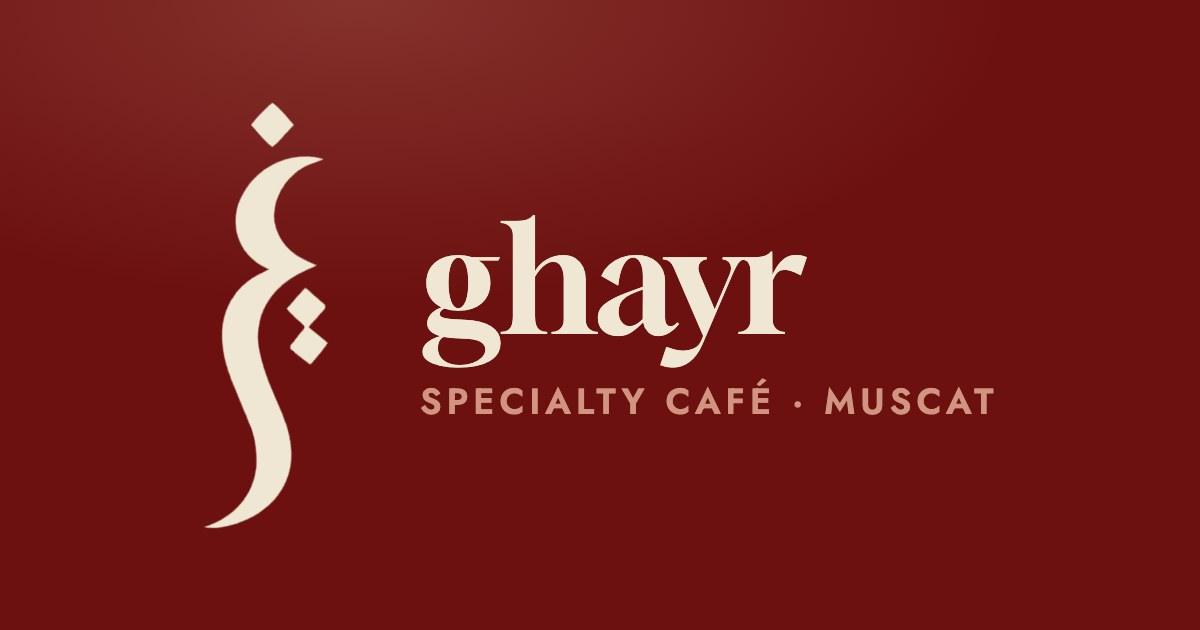
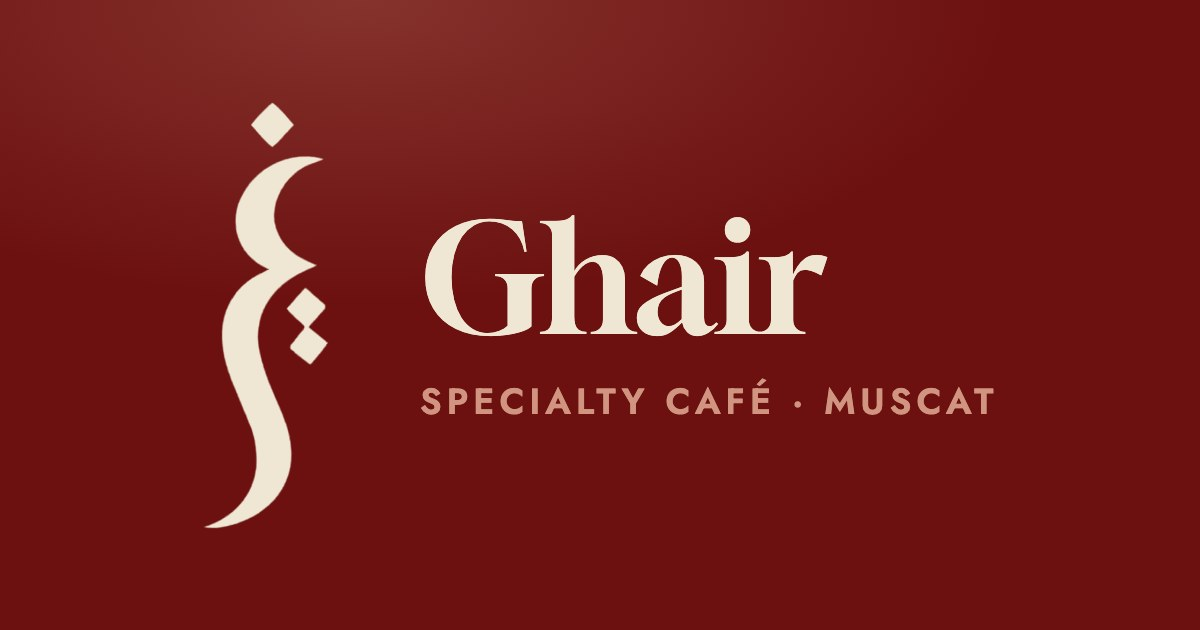
Use cafe's own spelling 'Ghair' for the visible English name and OG image
Claude-Session: https://claude.ai/code/session_01BqoRXw72S4MTjKAfkUrJE7

Changed region(s): [[0.3392, 0.3317, 0.7092, 0.6032], [0.37, 0.573, 0.4008, 0.6032]]

diff --git a/index.html b/index.html
@@ -3,13 +3,13 @@
 <head>
 <meta charset="utf-8">
 <meta name="viewport" content="width=device-width, initial-scale=1, viewport-fit=cover">
-<title>Ghair Cafe (ghayr · غير) — specialty café in Muscat</title>
-<meta name="description" content="Ghair Cafe (ghayr, غير), specialty café on 18 November Street, Muscat. Espresso, manual brew, cold drinks and desserts with prices in OMR. Open daily 9 am to midnight.">
+<title>Ghair Cafe (غير) — specialty café in Muscat</title>
+<meta name="description" content="Ghair Cafe (غير), specialty café on 18 November Street, Muscat. Espresso, manual brew, cold drinks and desserts with prices in OMR. Open daily 9 am to midnight.">
 <link rel="canonical" href="https://shajedulkarim.github.io/ghayrcafe/">
 <link rel="alternate" hreflang="ar" href="https://shajedulkarim.github.io/ghayrcafe/ar.html">
 <link rel="alternate" hreflang="en" href="https://shajedulkarim.github.io/ghayrcafe/">
 <meta name="theme-color" content="#6c1110">
-<meta property="og:title" content="Ghair Cafe (ghayr) — Muscat">
+<meta property="og:title" content="Ghair Cafe — Muscat">
 <meta property="og:description" content="Specialty coffee and desserts in Muscat. Open daily 9 am – 12 am.">
 <meta property="og:type" content="website">
 <meta property="og:url" content="https://shajedulkarim.github.io/ghayrcafe/">
@@ -24,16 +24,16 @@
 <link href="https://fonts.googleapis.com/css2?family=Aref+Ruqaa:wght@400;700&family=Gloock&family=Jost:wght@400;500;600;700&display=swap" rel="stylesheet">
 <link rel="stylesheet" href="styles.css">
 <script type="application/ld+json">
-{"@context":"https://schema.org","@type":"CafeOrCoffeeShop","name":"Ghair Cafe","alternateName":["ghayr","غير كافيه"],"url":"https://shajedulkarim.github.io/ghayrcafe/","image":"https://shajedulkarim.github.io/ghayrcafe/assets/og.jpg","telephone":"+96898147554","priceRange":"OMR 0-2","servesCuisine":"Coffee","address":{"@type":"PostalAddress","streetAddress":"18 November Street, Deira Building","addressLocality":"Muscat","addressCountry":"OM"},"openingHoursSpecification":[{"@type":"OpeningHoursSpecification","dayOfWeek":["Monday","Tuesday","Wednesday","Thursday","Friday","Saturday","Sunday"],"opens":"09:00","closes":"00:00"}],"sameAs":["https://www.instagram.com/ghair.om"],"hasMap":"https://share.google/MjlmawpOmv6i7btMs"}
+{"@context":"https://schema.org","@type":"CafeOrCoffeeShop","name":"Ghair Cafe","alternateName":["Ghair","ghayr","غير كافيه"],"url":"https://shajedulkarim.github.io/ghayrcafe/","image":"https://shajedulkarim.github.io/ghayrcafe/assets/og.jpg","telephone":"+96898147554","priceRange":"OMR 0-2","servesCuisine":"Coffee","address":{"@type":"PostalAddress","streetAddress":"18 November Street, Deira Building","addressLocality":"Muscat","addressCountry":"OM"},"openingHoursSpecification":[{"@type":"OpeningHoursSpecification","dayOfWeek":["Monday","Tuesday","Wednesday","Thursday","Friday","Saturday","Sunday"],"opens":"09:00","closes":"00:00"}],"sameAs":["https://www.instagram.com/ghair.om"],"hasMap":"https://share.google/MjlmawpOmv6i7btMs"}
 </script>
 <script>document.documentElement.classList.add('js')</script>
 </head>
 <body>
 
 <header class="nav" id="nav">
-  <a class="nav__brand" href="#top" aria-label="ghayr, back to top">
-    <span class="glyph" role="img" aria-label="ghayr logo"></span>
-    <span class="nav__name">ghayr</span>
+  <a class="nav__brand" href="#top" aria-label="Ghair, back to top">
+    <span class="glyph" role="img" aria-label="Ghair logo"></span>
+    <span class="nav__name">Ghair</span>
   </a>
   <nav class="nav__links" aria-label="Sections">
     <a href="#story">Story</a>
@@ -49,7 +49,7 @@
   <a class="lang-switch" href="ar.html" lang="ar" hreflang="ar">العربية</a>
   <div class="hero__inner">
     <p class="eyebrow">Specialty café · Muscat, Oman</p>
-    <span class="glyph glyph--hero" role="img" aria-label="ghayr logo"></span>
+    <span class="glyph glyph--hero" role="img" aria-label="Ghair logo"></span>
     <p class="hero__ar" lang="ar" dir="rtl">غير</p>
     <h1 id="hero-title">Different in <em>everything.</em></h1>
     <p class="hero__sub">Rich, creamy coffee and house desserts, made to warm your soul.</p>
@@ -69,7 +69,7 @@
   <div class="wrap">
     <h2 id="story-title" class="reveal">Story</h2>
     <div class="story__grid">
-      <p class="lede reveal"><span lang="ar" dir="rtl" class="ar-inline">غير</span> (ghayr) is Arabic for “other” or “different.” A specialty café in Muscat, with coffee, house desserts and an Arabic-calligraphy identity.</p>
+      <p class="lede reveal"><span lang="ar" dir="rtl" class="ar-inline">غير</span> (Ghair) is Arabic for “other” or “different.” A specialty café in Muscat, with coffee, house desserts and an Arabic-calligraphy identity.</p>
       <ul class="facts reveal">
         <li><strong>9</strong><span>branches across Oman</span></li>
         <li><strong>9 am – 12 am</strong><span>open every day</span></li>
@@ -132,7 +132,7 @@
 
 <footer class="footer" id="footer">
   <div class="wrap footer__inner">
-    <span class="glyph glyph--foot" role="img" aria-label="ghayr logo"></span>
+    <span class="glyph glyph--foot" role="img" aria-label="Ghair logo"></span>
     <p class="footer__ar" lang="ar" dir="rtl">غير</p>
     <p>Specialty café · Muscat, Oman</p>
     <p class="footer__links"><a href="ar.html" lang="ar" hreflang="ar">العربية</a> · <a href="https://www.instagram.com/ghair.om" target="_blank" rel="noopener">Instagram</a> · <a href="tel:+96898147554">+968 9814 7554</a></p>

diff --git a/ar.html b/ar.html
@@ -24,7 +24,7 @@
 <link href="https://fonts.googleapis.com/css2?family=Aref+Ruqaa:wght@400;700&family=Gloock&family=Jost:wght@400;500;600;700&family=Readex+Pro:wght@400;500;600;700&display=swap" rel="stylesheet">
 <link rel="stylesheet" href="styles.css">
 <script type="application/ld+json">
-{"@context":"https://schema.org","@type":"CafeOrCoffeeShop","name":"Ghair Cafe","alternateName":["ghayr","غير كافيه"],"url":"https://shajedulkarim.github.io/ghayrcafe/","image":"https://shajedulkarim.github.io/ghayrcafe/assets/og.jpg","telephone":"+96898147554","priceRange":"OMR 0-2","servesCuisine":"Coffee","address":{"@type":"PostalAddress","streetAddress":"18 November Street, Deira Building","addressLocality":"Muscat","addressCountry":"OM"},"openingHoursSpecification":[{"@type":"OpeningHoursSpecification","dayOfWeek":["Monday","Tuesday","Wednesday","Thursday","Friday","Saturday","Sunday"],"opens":"09:00","closes":"00:00"}],"sameAs":["https://www.instagram.com/ghair.om"],"hasMap":"https://share.google/MjlmawpOmv6i7btMs"}
+{"@context":"https://schema.org","@type":"CafeOrCoffeeShop","name":"Ghair Cafe","alternateName":["Ghair","ghayr","غير كافيه"],"url":"https://shajedulkarim.github.io/ghayrcafe/","image":"https://shajedulkarim.github.io/ghayrcafe/assets/og.jpg","telephone":"+96898147554","priceRange":"OMR 0-2","servesCuisine":"Coffee","address":{"@type":"PostalAddress","streetAddress":"18 November Street, Deira Building","addressLocality":"Muscat","addressCountry":"OM"},"openingHoursSpecification":[{"@type":"OpeningHoursSpecification","dayOfWeek":["Monday","Tuesday","Wednesday","Thursday","Friday","Saturday","Sunday"],"opens":"09:00","closes":"00:00"}],"sameAs":["https://www.instagram.com/ghair.om"],"hasMap":"https://share.google/MjlmawpOmv6i7btMs"}
 </script>
 <script>document.documentElement.classList.add('js')</script>
 </head>
@@ -32,7 +32,7 @@
 
 <header class="nav" id="nav">
   <a class="nav__brand" href="#top" aria-label="غير، العودة للأعلى">
-    <span class="glyph" role="img" aria-label="ghayr logo"></span>
+    <span class="glyph" role="img" aria-label="غير"></span>
     <span class="nav__name">غير</span>
   </a>
   <nav class="nav__links" aria-label="الأقسام">
@@ -49,7 +49,7 @@
   <a class="lang-switch" href="./" lang="en" hreflang="en" dir="ltr">English</a>
   <div class="hero__inner">
     <p class="eyebrow">مقهى مختص · مسقط، عُمان</p>
-    <span class="glyph glyph--hero" role="img" aria-label="ghayr logo"></span>
+    <span class="glyph glyph--hero" role="img" aria-label="غير"></span>
     <h1 id="hero-title">غير في <em>كل شي</em></h1>
     <p class="hero__sub">قهوة غنية وكريمية وحلويات من مطبخنا، تدفّئ الروح.</p>
     <div class="hero__cta">
@@ -131,7 +131,7 @@
 
 <footer class="footer" id="footer">
   <div class="wrap footer__inner">
-    <span class="glyph glyph--foot" role="img" aria-label="ghayr logo"></span>
+    <span class="glyph glyph--foot" role="img" aria-label="غير"></span>
     <p>مقهى مختص · مسقط، عُمان</p>
     <p class="footer__links"><a href="./" lang="en" hreflang="en" dir="ltr">English</a> · <a href="https://www.instagram.com/ghair.om" target="_blank" rel="noopener">إنستغرام</a> · <a href="tel:+96898147554" dir="ltr">+968 9814 7554</a></p>
   </div>
